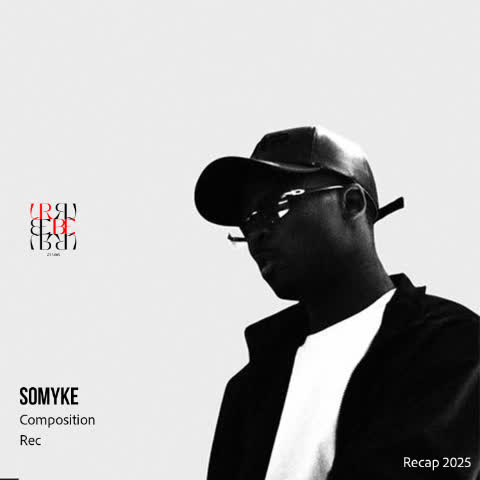
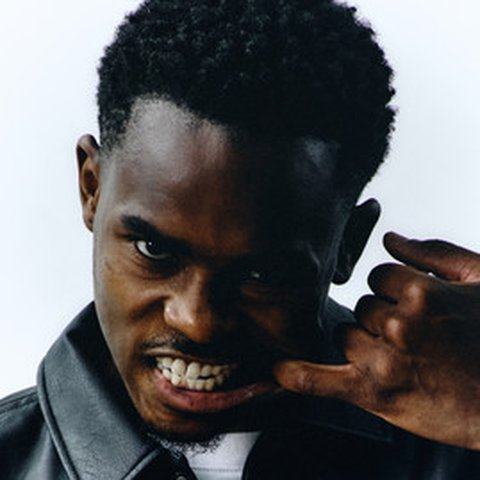
Nouveaux credits artistes + photos mises a jour + source commune credits/accueil
7 nouveaux credits musique : Tim Kta, Low-Jay, Kls Le K, Darling
Chouchou, THBW, Eve La Marke, plus un credit "Son a l'image" (WECASA,
voix off pub TV/radio, prod. Choses Communes) avec integration video
YouTube dans la modale (jusque-la seul Spotify etait gere).

Photos mises a jour sur des credits existants (Nahir, Sheriff La
Zone, Nono La Grinta, Somyke) et miniature video dediee pour Emmanuel
Gregoire (sans toucher a covers/c/gregoire.jpg, reutilisee telle
quelle sur plusieurs articles du blog).

Reordonnancement de la liste selon les demandes successives.

Correctif structurel : le bandeau defilant de l'accueil dupliquait en
dur l'ancienne liste de credits (16 noms, jamais synchronisee avec la
page Credits) - aucun des nouveaux ajouts n'y apparaissait. Extrait
la liste vers une constante commune (CREDITS_STUDIO) utilisee a la
fois par la page Credits et le bandeau accueil : un seul futur ajout
suffira desormais a mettre a jour les deux.

diff --git a/src/main.jsx b/src/main.jsx
@@ -1149,6 +1149,31 @@ function ActuSection({ setPage }) {
 
 }
 
+/* ─── CRÉDITS STUDIO — source unique (page Crédits + bandeau accueil) ── */
+const CREDITS_STUDIO = [
+{ nom: 'NONO LA GRINTA', type: 'Composition · Rec', img: 'covers/nono.jpg', spotify: '6CcoMrijDlPb1bDJxwvlCK' },
+{ nom: 'SHERIFF LA ZONE', type: 'Composition · Rec', img: 'covers/sheriff.jpg', spotify: '4iJyoBOLtHqaGxP12qzhQI' },
+{ nom: 'NAHIR', type: 'Rec', img: 'covers/c/nahir.jpg', spotify: '4iJyoBOLtHqaGxP12qzhQI' },
+{ nom: 'DARLING CHOUCHOU', type: 'Composition · Rec', img: 'covers/c/darling-chouchou.jpg' },
+{ nom: 'EVE LA MARKE', type: 'Composition · Rec', img: 'covers/c/eve-la-marke.jpg' },
+{ nom: 'SAKI225', type: 'Composition · Rec', img: 'covers/saki225.jpg', spotify: '4iJyoBOLtHqaGxP12qzhQI' },
+{ nom: 'RICKY BISHOP', type: 'Composition · Rec', img: 'covers/c/bishop.jpg', spotify: '4iJyoBOLtHqaGxP12qzhQI' },
+{ nom: 'ASIKI', type: 'Composition · Rec', img: 'covers/c/asiki.jpg', spotify: '4iJyoBOLtHqaGxP12qzhQI' },
+{ nom: 'SOMYKE', type: 'Composition · Rec', img: 'covers/c/somyke.jpg', spotify: '4iJyoBOLtHqaGxP12qzhQI' },
+{ nom: 'RYFLO', type: 'Composition · Rec', img: 'covers/c/ryflo.jpg', spotify: '4iJyoBOLtHqaGxP12qzhQI' },
+{ nom: '63KLUF', type: 'Composition · Rec', img: 'covers/63kluf.jpg', spotify: '4iJyoBOLtHqaGxP12qzhQI' },
+{ nom: 'BERNA', type: 'Rec', img: 'covers/berna.jpg', spotify: '4iJyoBOLtHqaGxP12qzhQI' },
+{ nom: 'GOTTI MARRAS', type: 'Composition · Rec', img: 'covers/gotti.jpg', spotify: '4iJyoBOLtHqaGxP12qzhQI' },
+{ nom: 'MAX DLG', type: 'Composition · Rec', img: 'covers/c/maxdlg.jpg', spotify: '4iJyoBOLtHqaGxP12qzhQI' },
+{ nom: 'GEMEN', type: 'Rec', img: 'covers/gemen.jpg', spotify: '4iJyoBOLtHqaGxP12qzhQI' },
+{ nom: 'CASH DICO × WESTSIDEBOOGIE', type: 'Comp · Rec · Mix/Master', img: 'covers/cashdico.jpg', spotify: '4iJyoBOLtHqaGxP12qzhQI' },
+{ nom: 'TITI33', type: 'Comp · Rec · Mix/Master', img: 'covers/titi33.jpg', spotify: '4iJyoBOLtHqaGxP12qzhQI' },
+{ nom: 'DETOX', type: 'Mix · Master', img: 'covers/detox.jpg', spotify: '4iJyoBOLtHqaGxP12qzhQI' },
+{ nom: 'THBW', type: 'Composition · Rec', img: 'covers/c/thbw.jpg' },
+{ nom: 'TIM KTA', type: 'Composition · Rec', img: 'covers/c/tim-kta.jpg' },
+{ nom: 'LOW-JAY', type: 'Composition · Rec', img: 'covers/c/low-jay.jpg' },
+{ nom: 'KLS LE K', type: 'Composition · Rec', img: 'covers/c/kls-le-k.jpg' }];
+
 /* ─── HOMEPAGE ───────────────────────────────────────────────── */
 function HomePage({ setPage }) {
   const [formOpen, setFormOpen] = useState(false);
@@ -1352,26 +1377,10 @@ function HomePage({ setPage }) {
         <div className="urbe-hide-mobile" style={{ position: 'absolute', bottom: 28, left: 0, right: 0, zIndex: 3, padding: '0 clamp(20px,3vw,56px)', display: 'flex', alignItems: 'center', gap: 24, whiteSpace: 'nowrap', overflow: 'hidden', maskImage: 'linear-gradient(90deg, transparent 0%, #000 8%, #000 92%, transparent 100%)', WebkitMaskImage: 'linear-gradient(90deg, transparent 0%, #000 8%, #000 92%, transparent 100%)' }}>
           <span style={{ fontFamily: 'Space Mono', fontSize: 10, letterSpacing: '0.22em', color: 'rgba(241,236,231,0.6)', textTransform: 'uppercase', fontWeight: 600, flexShrink: 0 }}>Ils sont passés ici →</span>
           <div className="urbe-hero-marquee-track" style={{ display: 'flex', gap: 22, alignItems: 'center', opacity: 0.65, flexShrink: 0 }}>
-            {[...Array(2)].flatMap((_, dup) => [
-            'NONO LA GRINTA · Compo · Rec',
-            'SHERIFF LA ZONE · Compo · Rec',
-            'NAHIR · Rec',
-            'RICKY BISHOP · Compo · Rec',
-            'ASIKI · Compo · Rec',
-            'SOMYKE · Compo · Rec',
-            'RYFLO · Compo · Rec',
-            'SAKI225 · Compo · Rec',
-            '63KLUF · Compo · Rec',
-            'BERNA · Rec',
-            'GOTTI MARRAS · Compo · Rec',
-            'MAX DLG · Compo · Rec',
-            'GEMEN · Rec',
-            'CASH DICO × WESTSIDEBOOGIE · Comp · Rec · Mix/Master',
-            'TITI33 · Comp · Rec · Mix/Master',
-            'DETOX · Mix · Master'].
-            map((s, i) =>
+            {[...Array(2)].flatMap((_, dup) =>
+            CREDITS_STUDIO.map((c, i) =>
             <React.Fragment key={`${dup}-${i}`}>
-                <span style={{ fontFamily: 'Space Mono', fontSize: 11, letterSpacing: '0.06em', color: 'rgba(241,236,231,0.7)', fontWeight: 400 }}>{s}</span>
+                <span style={{ fontFamily: 'Space Mono', fontSize: 11, letterSpacing: '0.06em', color: 'rgba(241,236,231,0.7)', fontWeight: 400 }}>{c.nom} · {c.type}</span>
                 <span style={{ width: 4, height: 4, background: 'var(--rouge3)', borderRadius: '50%', flexShrink: 0 }} />
               </React.Fragment>
             ))}
@@ -2148,28 +2157,13 @@ function CreditsPage() {
   const [selected, setSelected] = useState(null);
 
   // Productions Studio — artistes passés au studio (pas de prods solo)
-  const studio = [
-  { nom: 'NONO LA GRINTA', type: 'Composition · Rec', img: 'covers/nono.jpg', spotify: '6CcoMrijDlPb1bDJxwvlCK' },
-  { nom: 'SHERIFF LA ZONE', type: 'Composition · Rec', img: 'covers/sheriff.jpg', spotify: '4iJyoBOLtHqaGxP12qzhQI' },
-  { nom: 'NAHIR', type: 'Rec', img: 'covers/c/nahir.jpg', spotify: '4iJyoBOLtHqaGxP12qzhQI' },
-  { nom: 'RICKY BISHOP', type: 'Composition · Rec', img: 'covers/c/bishop.jpg', spotify: '4iJyoBOLtHqaGxP12qzhQI' },
-  { nom: 'ASIKI', type: 'Composition · Rec', img: 'covers/c/asiki.jpg', spotify: '4iJyoBOLtHqaGxP12qzhQI' },
-  { nom: 'SOMYKE', type: 'Composition · Rec', img: 'covers/c/somyke.jpg', spotify: '4iJyoBOLtHqaGxP12qzhQI' },
-  { nom: 'RYFLO', type: 'Composition · Rec', img: 'covers/c/ryflo.jpg', spotify: '4iJyoBOLtHqaGxP12qzhQI' },
-  { nom: 'SAKI225', type: 'Composition · Rec', img: 'covers/saki225.jpg', spotify: '4iJyoBOLtHqaGxP12qzhQI' },
-  { nom: '63KLUF', type: 'Composition · Rec', img: 'covers/63kluf.jpg', spotify: '4iJyoBOLtHqaGxP12qzhQI' },
-  { nom: 'BERNA', type: 'Rec', img: 'covers/berna.jpg', spotify: '4iJyoBOLtHqaGxP12qzhQI' },
-  { nom: 'GOTTI MARRAS', type: 'Composition · Rec', img: 'covers/gotti.jpg', spotify: '4iJyoBOLtHqaGxP12qzhQI' },
-  { nom: 'MAX DLG', type: 'Composition · Rec', img: 'covers/c/maxdlg.jpg', spotify: '4iJyoBOLtHqaGxP12qzhQI' },
-  { nom: 'GEMEN', type: 'Rec', img: 'covers/gemen.jpg', spotify: '4iJyoBOLtHqaGxP12qzhQI' },
-  { nom: 'CASH DICO × WESTSIDEBOOGIE', type: 'Comp · Rec · Mix/Master', img: 'covers/cashdico.jpg', spotify: '4iJyoBOLtHqaGxP12qzhQI' },
-  { nom: 'TITI33', type: 'Comp · Rec · Mix/Master', img: 'covers/titi33.jpg', spotify: '4iJyoBOLtHqaGxP12qzhQI' },
-  { nom: 'DETOX', type: 'Mix · Master', img: 'covers/detox.jpg', spotify: '4iJyoBOLtHqaGxP12qzhQI' }];
+  const studio = CREDITS_STUDIO;
 
 
   // Son à l'image — voix off, pub, doc, podcast
   const sonImage = [
-  { nom: 'EMMANUEL GREGOIRE', type: 'Voix Off · Direction artistique', img: 'covers/c/gregoire.jpg' }];
+  { nom: 'EMMANUEL GREGOIRE', type: 'Voix Off · Direction artistique', img: 'covers/c/emmanuel-gregoire-video.jpg', youtube: 'YEXxiuhjl-E' },
+  { nom: 'WECASA', type: 'Voix Off Pub · TV & Radio · Prod. Choses Communes', img: 'covers/c/wecasa.jpg', youtube: '2sXi-eH0k40' }];
 
 
   const list = tab === 'studio' ? studio : sonImage;
@@ -2281,6 +2275,16 @@ function CreditsPage() {
               title={selected.nom}
               src={`https://open.spotify.com/embed/track/${selected.spotify}?theme=0`}
               width="100%" height="152" frameBorder="0" allow="autoplay; clipboard-write; encrypted-media; fullscreen; picture-in-picture" loading="lazy"
+              style={{ borderRadius: 12, border: 'none', display: 'block' }} />
+                </ThirdPartyEmbed>
+              </div> :
+          selected.youtube ?
+          <div style={{ padding: 20 }}>
+                <ThirdPartyEmbed label="YouTube" height={220}>
+                <iframe
+              title={selected.nom}
+              src={`https://www.youtube-nocookie.com/embed/${selected.youtube}?rel=0&modestbranding=1`}
+              width="100%" height="220" frameBorder="0" allow="accelerometer; clipboard-write; encrypted-media; gyroscope; picture-in-picture; web-share" allowFullScreen loading="lazy"
               style={{ borderRadius: 12, border: 'none', display: 'block' }} />
                 </ThirdPartyEmbed>
               </div> :
